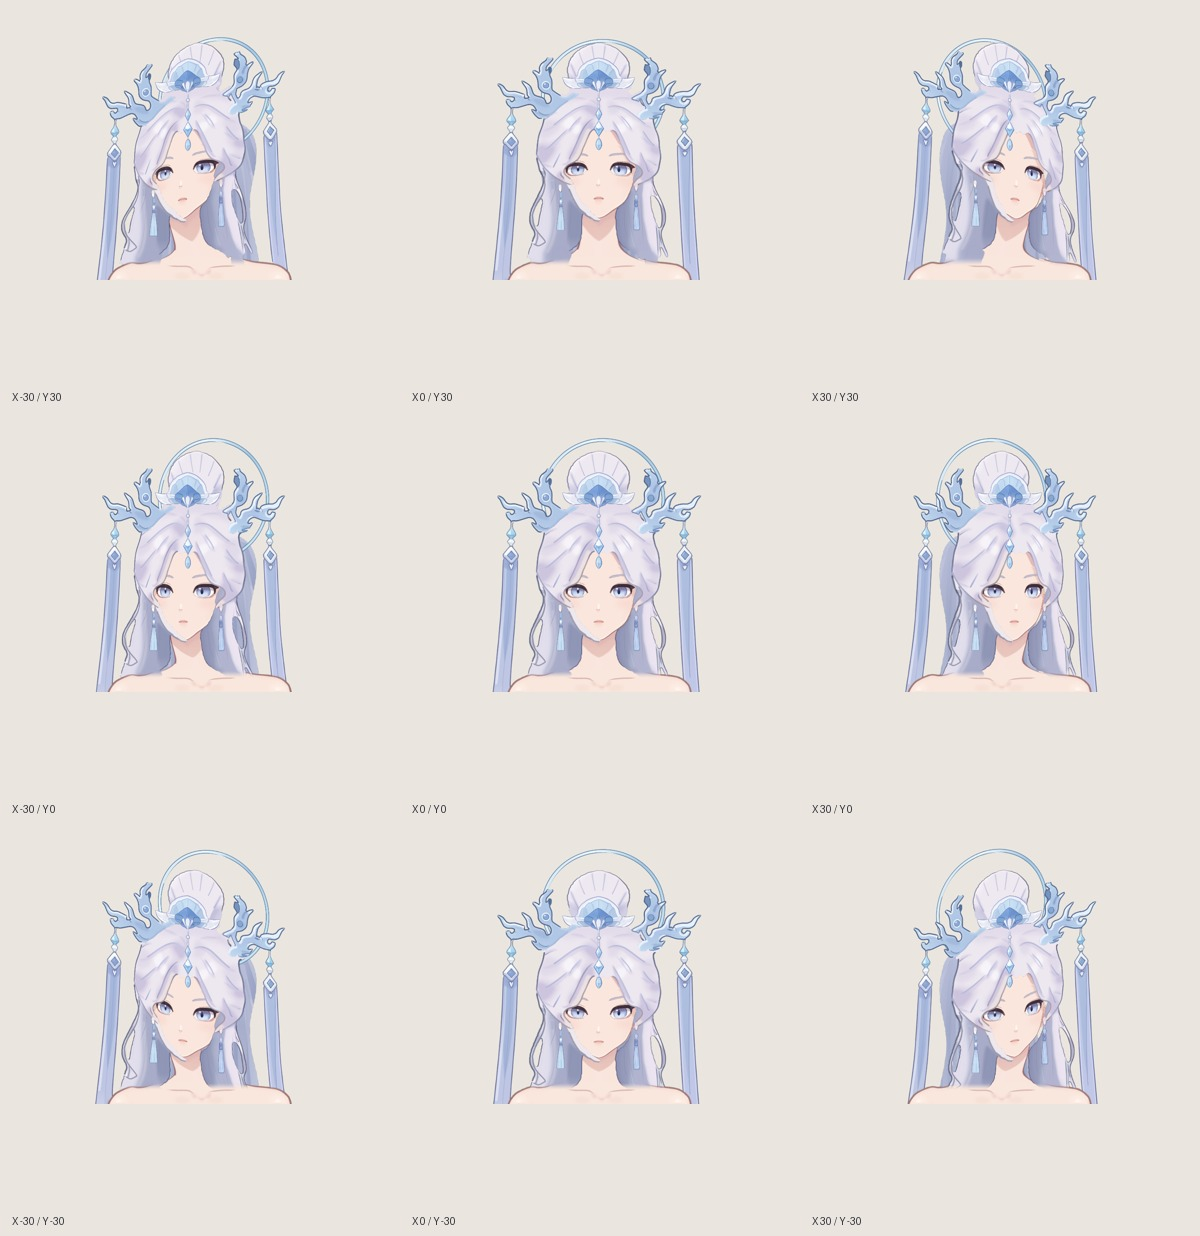
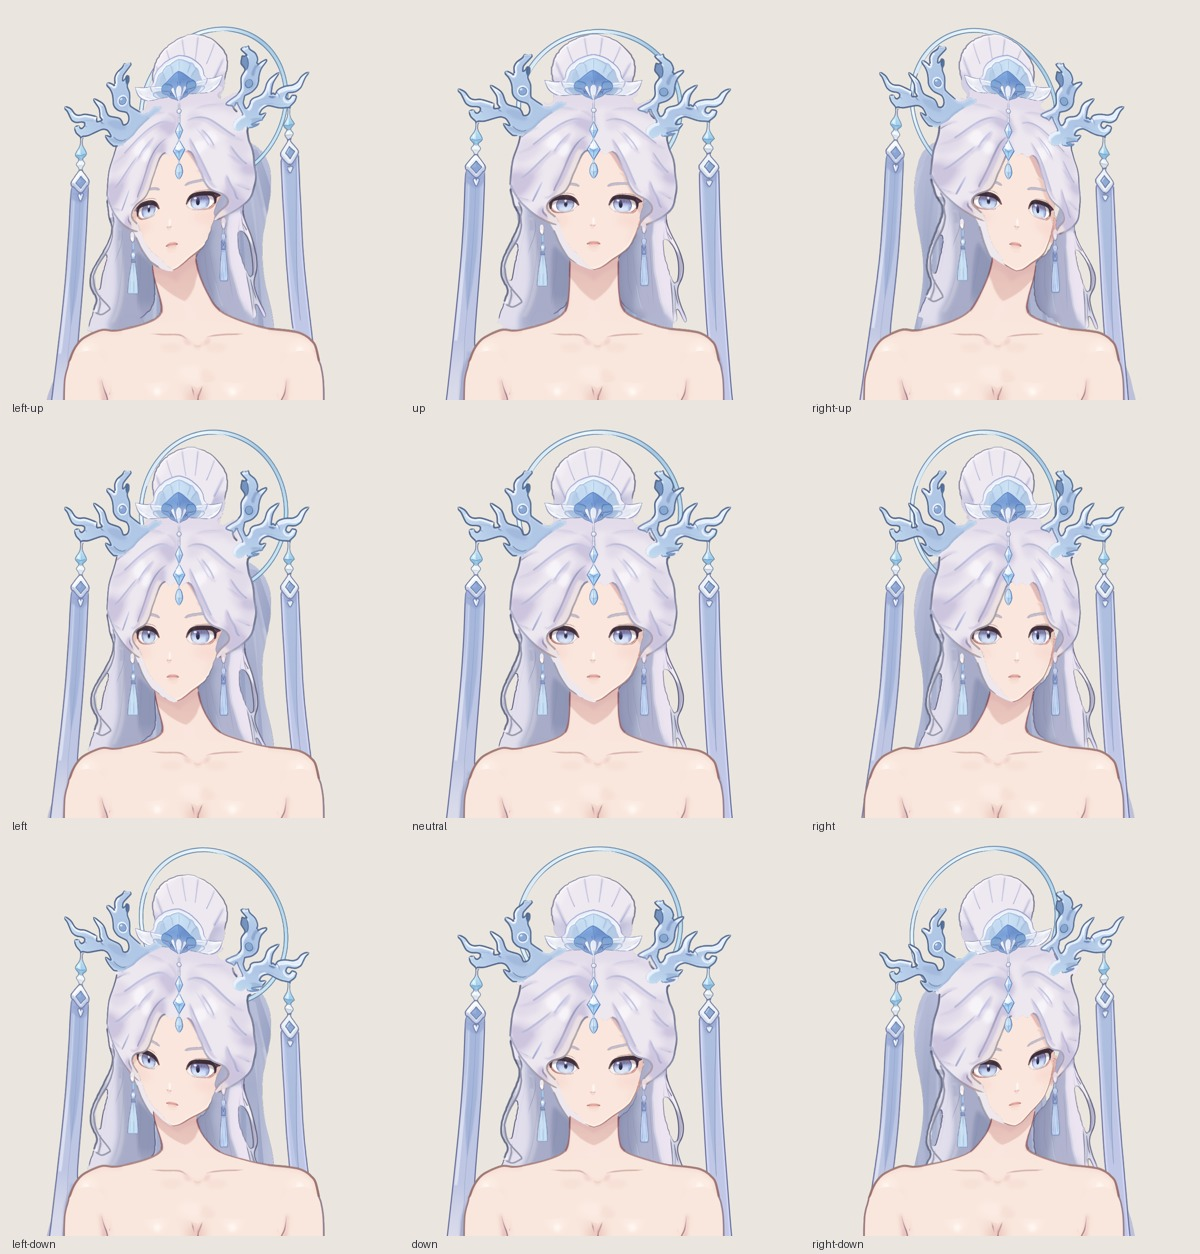
fix(rigging): use anatomical skin occlusion at the shoulder junction

diff --git a/rigging/jianma2d-head/README.md b/rigging/jianma2d-head/README.md
@@ -29,7 +29,7 @@
 2. **脸部局部层**：眼白、虹膜、睫毛、眉毛、嘴及面部色层共用脸场。鼻子只增加少量深度。保留睫毛轮廓，不为转头重画眼睛或开新洞。
 3. **四角校正**：在斜角增加下颌和五官线的组合校正。`rig.json` 分别记录抬头 / 低头和组合形参数。
 4. **发根与体积**：前发、后脑与垂发分开绑定。前发贴合太阳穴；两侧发根使用相同的头皮位置；后发使用相反深度产生前后视差。长发按纵向导线逐段衰减跟随，不能把发尾当成头顶一起旋转。
-5. **连接与遮挡**：颈部和上胸合成一个连续皮肤面，固定边界设在真实肩胸接口 Y=364；颈椎横截面限制旋转臂长，避免远处肩部被拧折。耳坠保留在头发前，以变形后的脸做 stencil 遮挡。冠、发髻、圆环和发饰使用独立刚性平面，珠链根部与对应发饰严格对齐。
+5. **连接与遮挡**：颈部和上胸合成一个连续皮肤面，肩侧补片和原图描边共用一条外轮廓，固定边界设在真实肩胸接口 Y=364；颈椎横截面限制旋转臂长，避免远处肩部被拧折。颈肩轮廓遮挡后方长发，并以变形后的脸做 stencil 保护下巴；不使用横向渐隐带掩盖接口。耳坠保留在头发前，同样按脸遮挡。冠、发髻、圆环和发饰使用独立刚性平面，珠链根部与对应发饰严格对齐。
 6. **连续参数**：九个边界形通过 3 × 3 张量二次插值混合，穿过零位没有速度断缝。Z 在混合后围绕颈部旋转，颈根和长发末端使用绑定权重。
 
 `X/Y ±30` 是参数范围；这一版边界约使用 ±26.4° 水平转向、约 ±17° 俯仰。它们不是对视频原模型欧拉角的测量。源码里的原始不对称保留。
